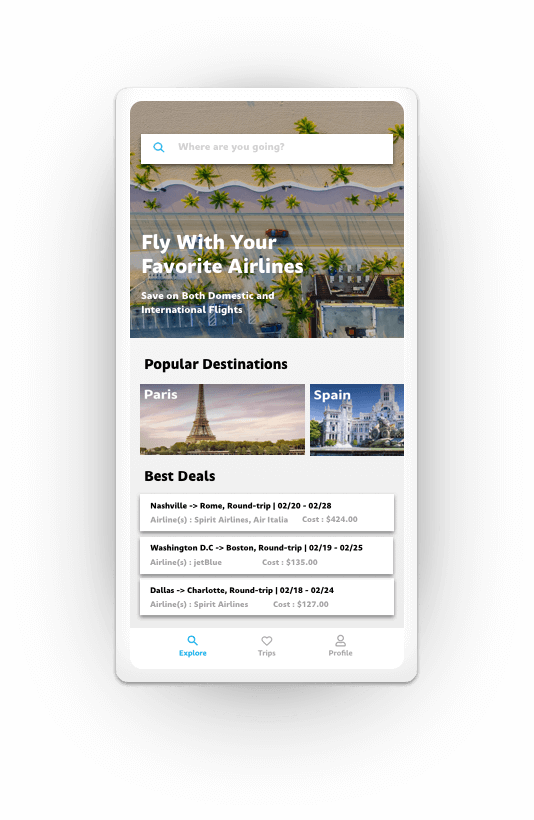
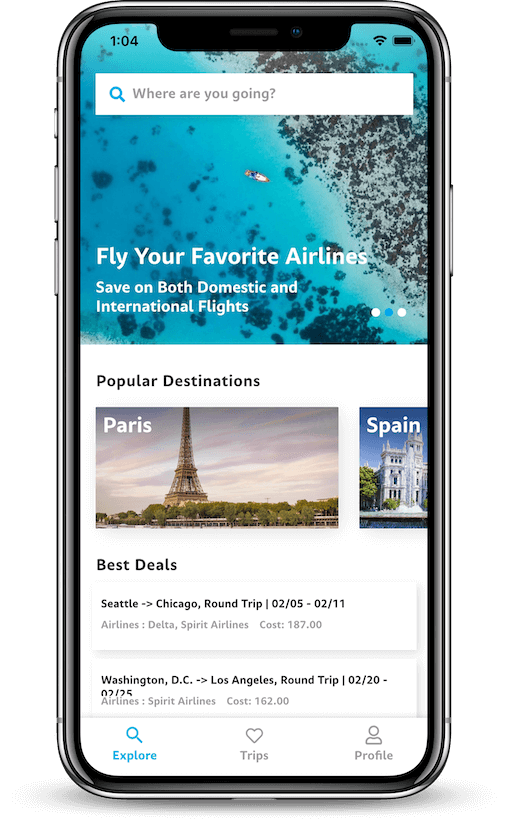
fix: update apps page phone mockup

diff --git a/frontend/src/views/Apps.vue b/frontend/src/views/Apps.vue
@@ -77,10 +77,10 @@ export default {
 }
 
 .apps__img-src {
-  margin-top: -2rem;
-  margin-right: -2rem;
-  margin-left: -2rem;
-  margin-bottom: -2rem;
+  margin-top: 4rem;
+  margin-right: 2rem;
+  margin-left: 2rem;
+  margin-bottom: 4rem;
 }
 
 .apps__title {
